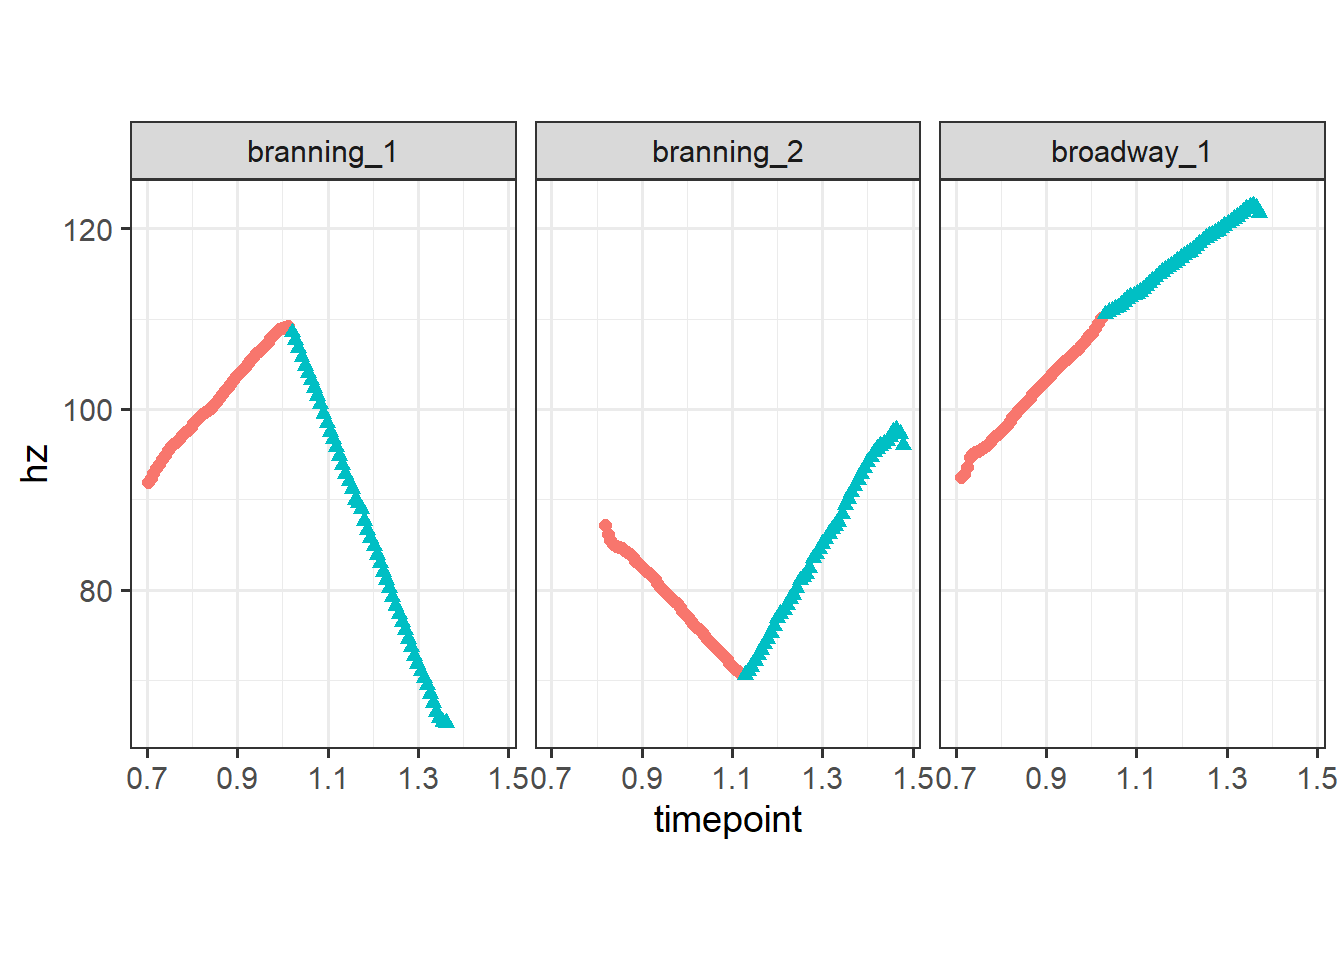
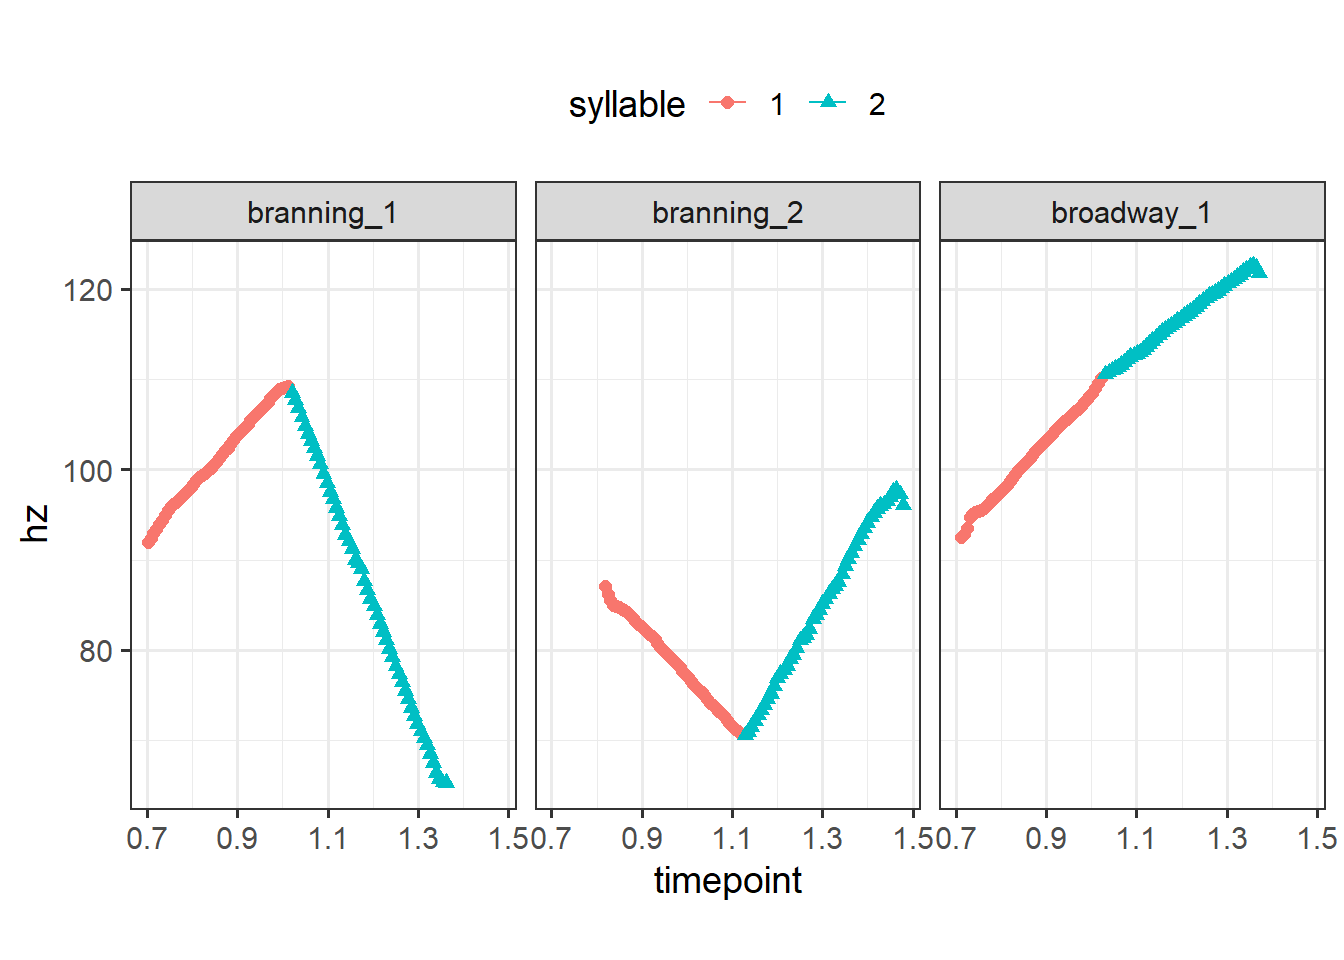
clean up comments, fix a legend position

diff --git a/_site/posts/pulselabeling/pulse_labeling.html b/_site/posts/pulselabeling/pulse_labeling.html
@@ -549,20 +549,19 @@ Tip
 <span id="cb17-4"><a href="#cb17-4" aria-hidden="true" tabindex="-1"></a>  <span class="fu">rename</span>(<span class="at">syllable =</span> label)</span>
 <span id="cb17-5"><a href="#cb17-5" aria-hidden="true" tabindex="-1"></a></span>
 <span id="cb17-6"><a href="#cb17-6" aria-hidden="true" tabindex="-1"></a>syllable_labeled_df <span class="sc">|&gt;</span> </span>
-<span id="cb17-7"><a href="#cb17-7" aria-hidden="true" tabindex="-1"></a>  <span class="co"># dplyr::filter(label != "") |&gt;  # Remove prenuclear material with blank label</span></span>
-<span id="cb17-8"><a href="#cb17-8" aria-hidden="true" tabindex="-1"></a>  <span class="co"># Get fifty equally spaced pulses by interval</span></span>
-<span id="cb17-9"><a href="#cb17-9" aria-hidden="true" tabindex="-1"></a>  sosprosody<span class="sc">::</span><span class="fu">piecewise_interpolate_pulses</span>(<span class="at">section_by =</span> <span class="st">"syllable"</span>,</span>
-<span id="cb17-10"><a href="#cb17-10" aria-hidden="true" tabindex="-1"></a>                                           <span class="at">pulses_per_section =</span> <span class="dv">50</span>,</span>
-<span id="cb17-11"><a href="#cb17-11" aria-hidden="true" tabindex="-1"></a>                                           <span class="at">time_by =</span> <span class="st">"timepoint"</span>,</span>
-<span id="cb17-12"><a href="#cb17-12" aria-hidden="true" tabindex="-1"></a>                                           <span class="at">.pitchval =</span> <span class="st">"hz"</span>,</span>
-<span id="cb17-13"><a href="#cb17-13" aria-hidden="true" tabindex="-1"></a>                                           <span class="at">.grouping =</span> <span class="st">"file"</span>) <span class="sc">|&gt;</span> </span>
-<span id="cb17-14"><a href="#cb17-14" aria-hidden="true" tabindex="-1"></a>  <span class="fu">ggplot</span>(<span class="fu">aes</span>(<span class="at">x =</span> timepoint, <span class="at">y =</span> hz, <span class="at">color=</span> syllable, <span class="at">shape =</span> syllable)) <span class="sc">+</span></span>
-<span id="cb17-15"><a href="#cb17-15" aria-hidden="true" tabindex="-1"></a>  <span class="fu">geom_line</span>() <span class="sc">+</span></span>
-<span id="cb17-16"><a href="#cb17-16" aria-hidden="true" tabindex="-1"></a>  <span class="fu">geom_point</span>(<span class="at">size =</span> <span class="dv">2</span>) <span class="sc">+</span></span>
-<span id="cb17-17"><a href="#cb17-17" aria-hidden="true" tabindex="-1"></a>  <span class="fu">theme_bw</span>(<span class="at">base_size =</span> <span class="dv">14</span>) <span class="sc">+</span></span>
-<span id="cb17-18"><a href="#cb17-18" aria-hidden="true" tabindex="-1"></a>  <span class="fu">theme</span>(<span class="at">legend.position =</span> <span class="st">'type'</span>) <span class="sc">+</span></span>
-<span id="cb17-19"><a href="#cb17-19" aria-hidden="true" tabindex="-1"></a>  <span class="fu">facet_wrap</span>(<span class="sc">~</span>file) <span class="sc">+</span></span>
-<span id="cb17-20"><a href="#cb17-20" aria-hidden="true" tabindex="-1"></a>  <span class="fu">coord_fixed</span>(<span class="dv">1</span><span class="sc">/</span><span class="dv">50</span>)</span></code><button title="Copy to Clipboard" class="code-copy-button"><i class="bi"></i></button></pre></div>
+<span id="cb17-7"><a href="#cb17-7" aria-hidden="true" tabindex="-1"></a>  <span class="co"># Get fifty equally spaced pulses for each interval</span></span>
+<span id="cb17-8"><a href="#cb17-8" aria-hidden="true" tabindex="-1"></a>  sosprosody<span class="sc">::</span><span class="fu">piecewise_interpolate_pulses</span>(<span class="at">section_by =</span> <span class="st">"syllable"</span>,</span>
+<span id="cb17-9"><a href="#cb17-9" aria-hidden="true" tabindex="-1"></a>                                           <span class="at">pulses_per_section =</span> <span class="dv">50</span>,</span>
+<span id="cb17-10"><a href="#cb17-10" aria-hidden="true" tabindex="-1"></a>                                           <span class="at">time_by =</span> <span class="st">"timepoint"</span>,</span>
+<span id="cb17-11"><a href="#cb17-11" aria-hidden="true" tabindex="-1"></a>                                           <span class="at">.pitchval =</span> <span class="st">"hz"</span>,</span>
+<span id="cb17-12"><a href="#cb17-12" aria-hidden="true" tabindex="-1"></a>                                           <span class="at">.grouping =</span> <span class="st">"file"</span>) <span class="sc">|&gt;</span> </span>
+<span id="cb17-13"><a href="#cb17-13" aria-hidden="true" tabindex="-1"></a>  <span class="fu">ggplot</span>(<span class="fu">aes</span>(<span class="at">x =</span> timepoint, <span class="at">y =</span> hz, <span class="at">color=</span> syllable, <span class="at">shape =</span> syllable)) <span class="sc">+</span></span>
+<span id="cb17-14"><a href="#cb17-14" aria-hidden="true" tabindex="-1"></a>  <span class="fu">geom_line</span>() <span class="sc">+</span></span>
+<span id="cb17-15"><a href="#cb17-15" aria-hidden="true" tabindex="-1"></a>  <span class="fu">geom_point</span>(<span class="at">size =</span> <span class="dv">2</span>) <span class="sc">+</span></span>
+<span id="cb17-16"><a href="#cb17-16" aria-hidden="true" tabindex="-1"></a>  <span class="fu">theme_bw</span>(<span class="at">base_size =</span> <span class="dv">14</span>) <span class="sc">+</span></span>
+<span id="cb17-17"><a href="#cb17-17" aria-hidden="true" tabindex="-1"></a>  <span class="fu">theme</span>(<span class="at">legend.position =</span> <span class="st">'top'</span>) <span class="sc">+</span></span>
+<span id="cb17-18"><a href="#cb17-18" aria-hidden="true" tabindex="-1"></a>  <span class="fu">facet_wrap</span>(<span class="sc">~</span>file) <span class="sc">+</span></span>
+<span id="cb17-19"><a href="#cb17-19" aria-hidden="true" tabindex="-1"></a>  <span class="fu">coord_fixed</span>(<span class="dv">1</span><span class="sc">/</span><span class="dv">50</span>)</span></code><button title="Copy to Clipboard" class="code-copy-button"><i class="bi"></i></button></pre></div>
 </details>
 <div class="cell-output-display">
 <p><img src="pulse_labeling_files/figure-html/unnamed-chunk-7-1.png" class="img-fluid" width="672"></p>

diff --git a/_site/index.html b/_site/index.html
@@ -171,7 +171,7 @@ ul.task-list li input[type="checkbox"] {
 
 <div class="quarto-listing quarto-listing-container-default" id="listing-listing">
 <div class="list quarto-listing-default">
-<div class="quarto-post image-right" data-index="0" data-categories="R,Praat" data-listing-date-sort="1674626400000" data-listing-file-modified-sort="1674930390364" data-listing-reading-time-sort="18.51">
+<div class="quarto-post image-right" data-index="0" data-categories="R,Praat" data-listing-date-sort="1674626400000" data-listing-file-modified-sort="1674930678845" data-listing-reading-time-sort="18.445">
 <div class="body">
 <a href="./posts/pulselabeling/pulse_labeling.html">
 <h3 class="no-anchor listing-title">
